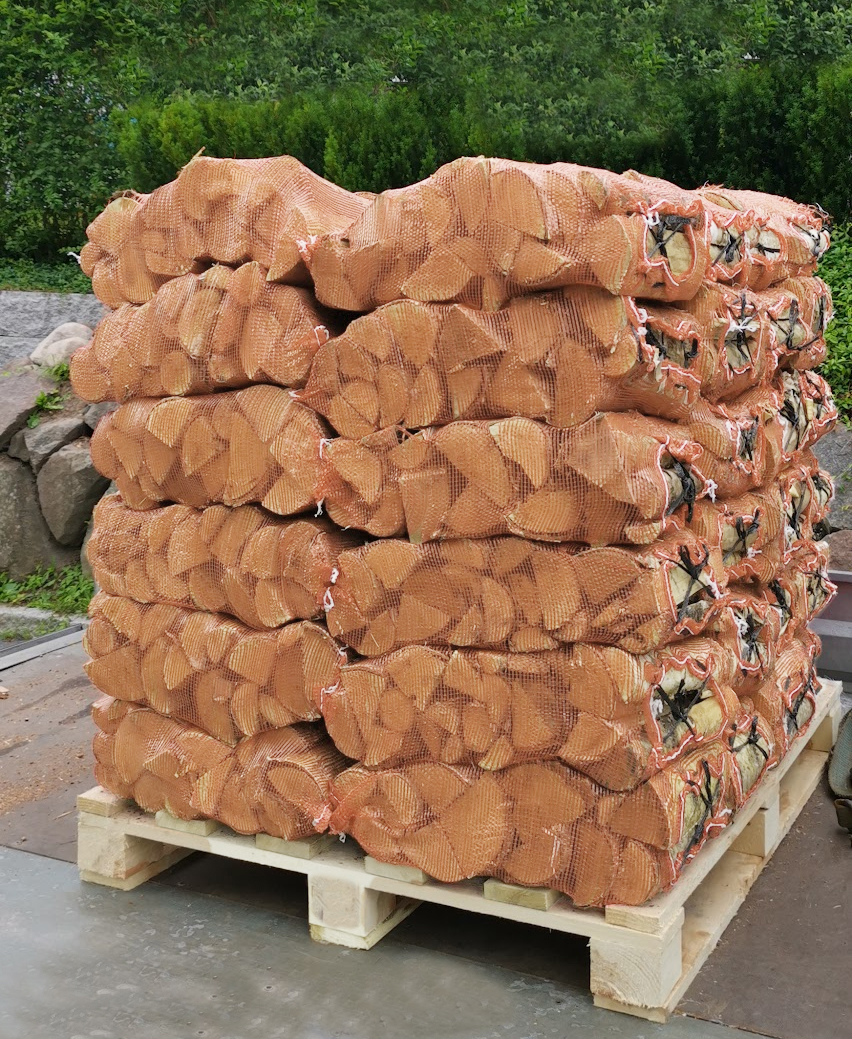
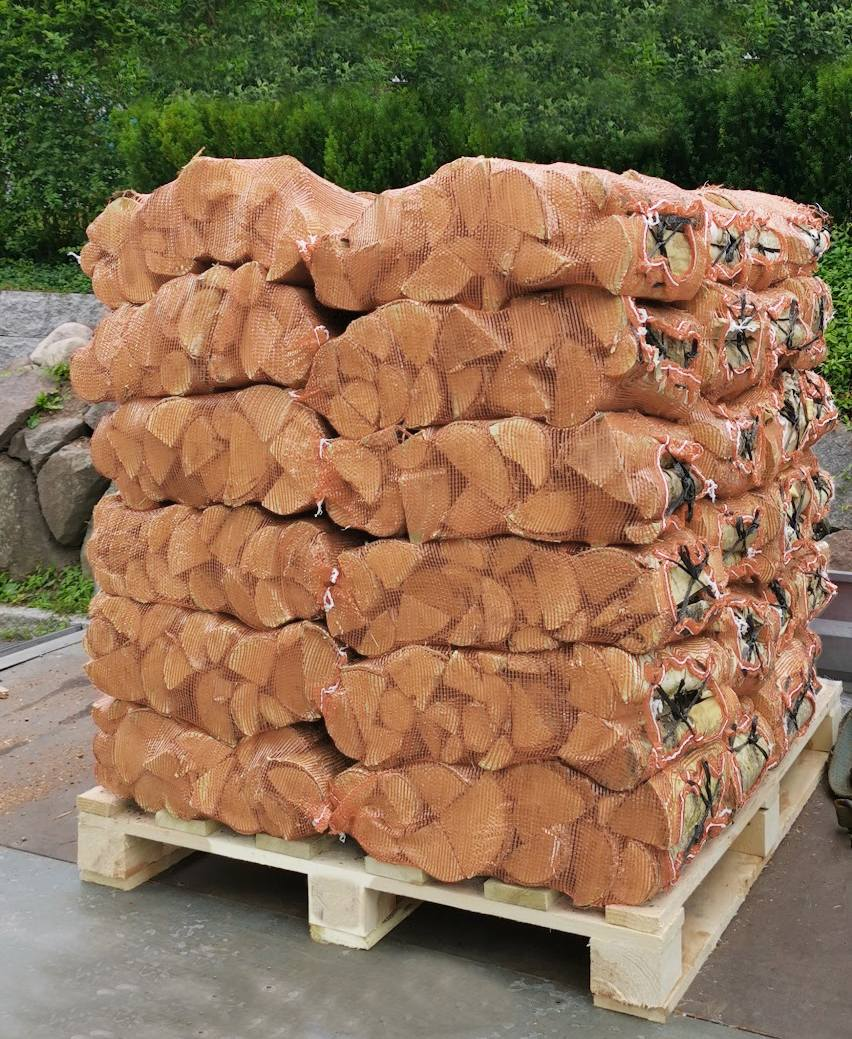
smaller images

diff --git a/produkter/index.html b/produkter/index.html
@@ -39,7 +39,7 @@
         </section>
         <section class="produkterSection">
 
-        <img src="norgeFlagg.png" class="product-img" alt="Norge Flagg">
+        <img src="norgeFlagg.jpg" class="product-img" alt="Norge Flagg">
             <h2>
                 Ved til Norgespris
             </h2>
